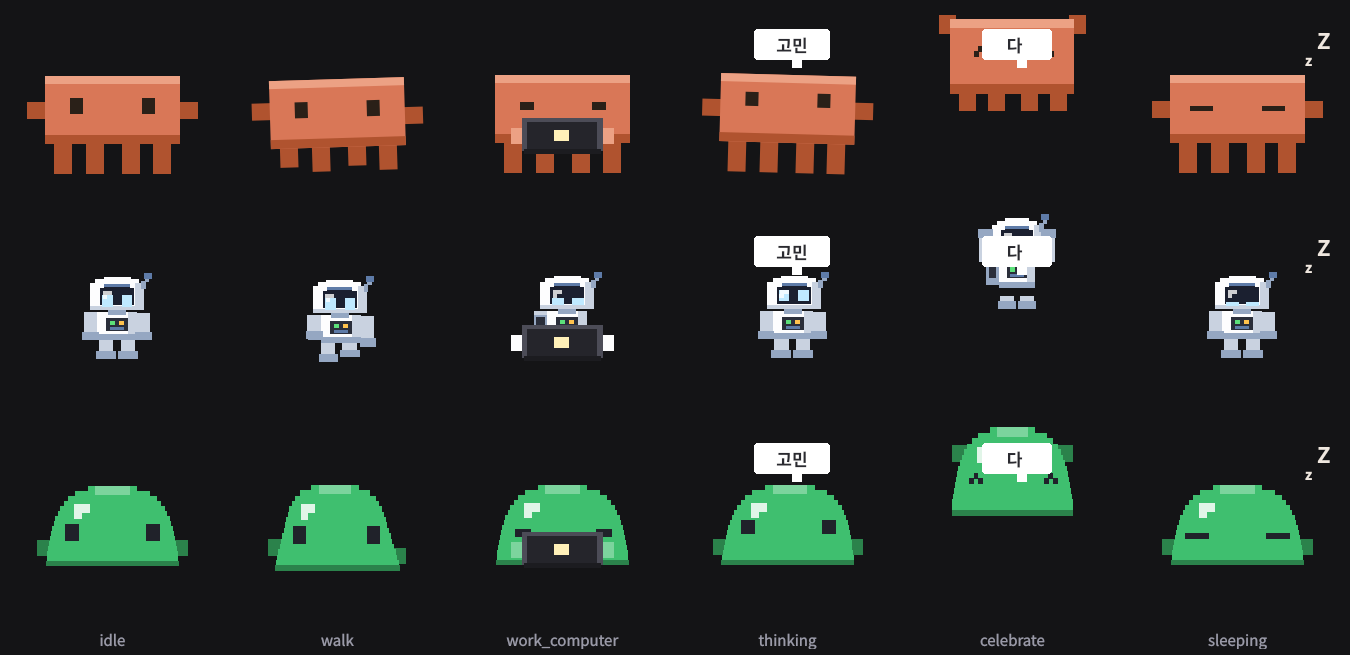
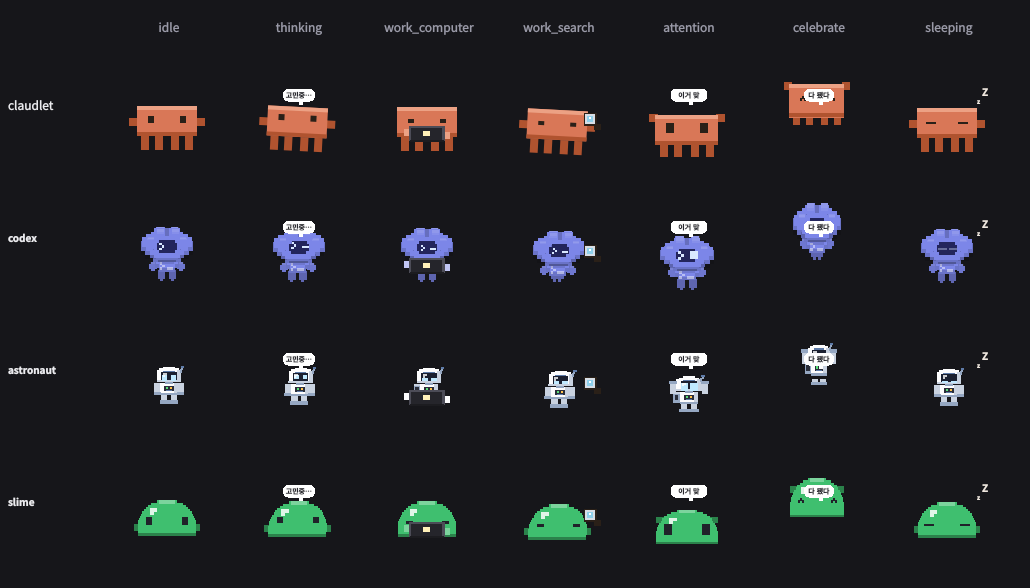
docs: 2.0 문서 — 에이전트별 크리처·설정 앱·크리처 주고받기
크리처 시트를 codex 포함 네 마리로 다시 뽑고, 설정 화면 스크린샷을 새 UI 로 교체.
설치 절에 '감지된 에이전트 전부에 훅+스킬, 리눅스는 데스크톱 항목까지'를 적고,
wear/export/import 를 명령어 표에 넣었다.

diff --git a/README.md b/README.md
@@ -59,8 +59,13 @@ commands on your PATH), then wire it into Claude Code:
 
 ```bash
 pipx install claudlet
-claudlet-install      # registers the hooks + /claudlet skill (idempotent)
+claudlet-install      # hooks + /claudlet skill, for every agent found (idempotent)
 ```
+
+`claudlet-install` registers the hooks for **each agent it finds** and links the
+`/claudlet` skill into that agent's own skills folder (`~/.claude/skills`,
+`~/.codex/skills`). On Linux it also drops a desktop entry and icon for the
+settings app.
 
 ### Other agents (Codex)
 
@@ -188,10 +193,21 @@ happening at a glance.
 
 ![The settings page](docs/settings-ui.png)
 
-`/claudlet setting` opens a page where you pick **which creature** the pet wears
-and, for each one, its **colour** and **size**. Every creature is previewed with
-the real renderer, so what you see is what lands on the desktop. Settings belong
-to the creature, so dressing one never repaints another.
+`/claudlet setting` (or `claudlet-config ui`) opens a page where you pick
+**which creature** the pet wears and, for each one, its **colour** and **size**.
+Every creature is previewed with the real renderer, so what you see is what lands
+on the desktop. Settings belong to the creature, so dressing one never repaints
+another.
+
+When more than one agent is installed, the page gets **a tab per agent** — Claude
+Code and Codex can wear different creatures. Prefer the command line?
+`claudlet-config wear <creature> [--agent codex]` switches it without opening
+anything, and running pets change at once.
+
+The page is served locally on a fixed port and opens in your ordinary browser. It
+also ships a web-app manifest, so you can **install it** from your browser's menu;
+after that it opens as its own window, and `claudlet-config ui --app` gives you
+that window without installing.
 
 A creature is a small package, not a data file — the pet tells it which state to
 be in and everything about how that looks is inside. `/claudlet make <what you
@@ -203,12 +219,12 @@ want>` writes one for you:
 ```
 
 It lands in `~/.config/claudlet/creatures/<name>/` and shows up in the settings
-list. Three ship with the pet:
+list. Four ship with the pet:
 
-![claudlet, astronaut and slime across the same states](docs/creatures.png)
+![claudlet, codex, astronaut and slime across the same states](docs/creatures.png)
 
-Two of them are there as **worked examples**, and neither is shaped like the
-built-in:
+**codex** is the one a Codex session's pet wears by default; the other two are
+there as **worked examples**, and neither is shaped like the built-in:
 
 - **astronaut** — a humanoid. Helmet, torso, two arms, two legs, a pack on its
   back. Its arms hang from fixed shoulders and the *hands* move, and it answers
@@ -223,6 +239,21 @@ pet, not from the creature — a creature only draws a body. Read either one nex
 to [creature-authoring.md](src/claudlet/skill/creature-authoring.md) if you are
 writing your own.
 
+### Sharing a creature
+
+![Importing a creature](docs/settings-import.png)
+
+The arrow buttons beside the creature bar export the one you are looking at as a
+`.zip`, and import one someone sent you (`claudlet-config export <creature>` /
+`import <file.zip>` do the same from a shell).
+
+Importing runs someone else's Python on your machine — the pet imports the
+package at startup — so it is deliberately a two-step: claudlet shows you what is
+inside the archive and installs nothing until you say go. Archives that try to
+escape the target directory, hide a symlink, carry control characters in a
+filename, or weigh more than a creature plausibly can are refused outright, and an
+install that fails leaves the creature you already had untouched.
+
 ## Commands
 
 `pipx install claudlet` puts these on your PATH:
@@ -232,7 +263,10 @@ writing your own.
 | `claudlet` | Launch a pet right now (standalone). |
 | `claudlet-install` | Register the hooks + `/claudlet` skill in Claude Code — run once after installing. |
 | `claudlet-uninstall` | Stop pets, unregister the hooks + skill, clean up (`--purge` also deletes your config). |
-| `claudlet-config` | Show / scaffold / open the user config (`--path`, `init`, `open`); `ui` opens the appearance page. |
+| `claudlet-config` | Show / scaffold / open the user config (`--path`, `init`, `open`); `ui` opens the appearance page (`--app` for a window of its own, `--agent <name>` to open on that agent). |
+| `claudlet-config wear <creature>` | Put a creature on, `--agent <name>` for one agent only; no argument lists what is available. |
+| `claudlet-config export <creature>` | Zip a creature to share (`--out <dir\|file.zip>`, `--force` to overwrite). |
+| `claudlet-config import <file.zip>` | Install a creature someone shared, after showing you what is inside (`--yes` to skip the prompt, `--force` to replace one of the same name). |
 | `claudlet-version` | Show the installed version vs the latest PyPI release. |
 | `claudlet-attach` | Attach a pet to the current Claude Code session. |
 | `claudlet-motion <name>` | Play a motion on running pets (`jump`, `wave`, … ; `stop`, `list`). |
